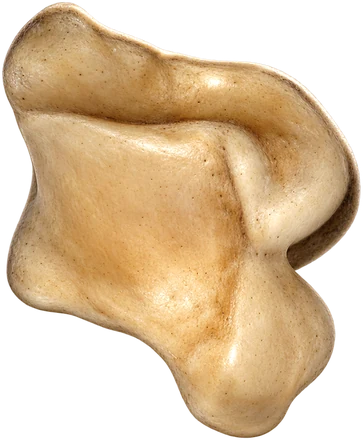
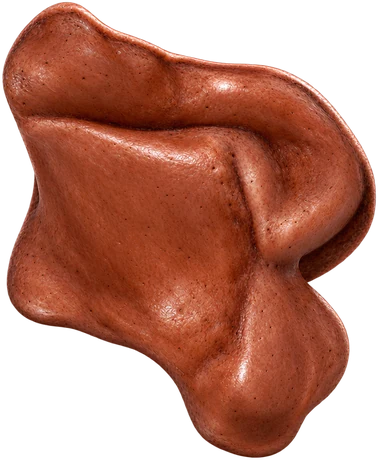
TSOTAN: brand-colour dyed shagai grouped over the cloth
Claude-Session: https://claude.ai/code/session_018PCH3AwiVvsN5WyYP3UKjp

diff --git a/demo/tsotan/index.html b/demo/tsotan/index.html
@@ -101,7 +101,7 @@ main{display:grid;gap:var(--g);min-width:0}
 .hrule{position:absolute;left:22%;right:300px;bottom:30px;height:14px;z-index:2;color:rgba(244,241,234,.38);background:
  repeating-linear-gradient(90deg,currentColor 0 1px,transparent 1px 8px) left bottom/100% 5px no-repeat,
  repeating-linear-gradient(90deg,currentColor 0 1px,transparent 1px 40px) left bottom/100% 10px no-repeat}
-.shagai{position:absolute;z-index:1;pointer-events:none;will-change:transform;filter:drop-shadow(0 22px 26px rgba(0,0,0,.45))}
+.shagai{position:absolute;z-index:1;pointer-events:none;will-change:transform;filter:drop-shadow(0 26px 22px rgba(0,0,0,.38)) drop-shadow(0 6px 8px rgba(0,0,0,.22))}
 .shagai img{width:100%;height:auto}
 
 /* ===== statement ===== */
@@ -307,7 +307,7 @@ footer{padding:clamp(60px,8vw,120px) 0 6px;overflow:hidden}
  .prods h2,.calcp h2,.cust h2{font-size:clamp(30px,9vw,44px)}.vbox h2{font-size:clamp(30px,9vw,44px)}
  .sw{flex-wrap:wrap}
  .vph{min-height:0;aspect-ratio:4/3}
- .shagai.s1{left:56%!important;top:49%!important;width:82px!important}.shagai.s2{left:42%!important;top:78%!important;width:66px!important}.shagai.s3{left:76%!important;top:62%!important;width:74px!important}.shagai.s4{left:8%!important;top:70%!important;width:82px!important}
+ .shagai.s1{left:52%!important;top:46%!important;width:96px!important}.shagai.s2{left:10%!important;top:63%!important;width:70px!important}.shagai.s3{left:68%!important;top:65%!important;width:84px!important}.shagai.s4{left:34%!important;top:76%!important;width:76px!important}
  .vbox dl{grid-template-columns:1fr;gap:2px}.vbox dd{margin-bottom:10px}
 }
 @media(prefers-reduced-motion:reduce){.pill i,.card .im,.sw button{transition:none}.tl img,.flo::after{animation:none}}
@@ -358,10 +358,10 @@ footer{padding:clamp(60px,8vw,120px) 0 6px;overflow:hidden}
    <a class="stack" href="#products" data-cur><span class="th"><img src="img/cloth-knot.webp" alt=""><img src="img/runner-blue.webp" alt=""><img src="img/cushion.webp" alt=""></span><span class="t"><b class="num">145 × 220 см</b>бүтээлэг 88,000₮</span><i><svg><use href="#i-arr"/></svg></i></a>
    <div class="hrule" aria-hidden="true"></div>
    <div class="notch bl"><a class="pill solid" href="#calc" data-cur>Ширээгээ хэмжээд тооцоол<i><svg><use href="#i-arr"/></svg></i></a></div>
-   <div class="shagai s1" data-d="1.4" title="Морь" style="width:124px;left:50%;top:7%"><img src="img/shagai-mori.webp" width="421" height="440" alt=""></div>
-   <div class="shagai s2" data-d="-1" title="Тэмээ" style="width:98px;left:57%;top:69%"><img src="img/shagai-temee.webp" width="362" height="440" alt=""></div>
-   <div class="shagai s3" data-d="2" title="Хонь" style="width:106px;left:84%;top:20%"><img src="img/shagai-honi.webp" width="440" height="373" alt=""></div>
-   <div class="shagai s4" data-d="-1.6" title="Ямаа" style="width:120px;left:33%;top:76%"><img src="img/shagai-yamaa.webp" width="440" height="318" alt=""></div>
+   <div class="shagai s1" data-d="1.4" style="width:150px;left:55%;top:13%"><img src="img/shagai-mori.webp" width="439" height="460" alt=""></div>
+   <div class="shagai s2" data-d="-1" style="width:104px;left:73%;top:15%"><img src="img/shagai-temee.webp" width="378" height="460" alt=""></div>
+   <div class="shagai s3" data-d="2" style="width:132px;left:61%;top:62%"><img src="img/shagai-honi.webp" width="460" height="397" alt=""></div>
+   <div class="shagai s4" data-d="-1.6" style="width:112px;left:80%;top:70%"><img src="img/shagai-yamaa.webp" width="460" height="333" alt=""></div>
   </section>
 
   <section class="panel state" data-sec="Цотан">

diff --git a/demo/tsotan/DESIGN.md b/demo/tsotan/DESIGN.md
@@ -6,7 +6,7 @@ Color: --bez #0e1513 (хүрээ) · --bez2 #16201d · --cotton #f4f1ea · --ink
 Type: Montserrat 800/900 (гарчиг, ТОМ ҮСГЭЭР, giant үгс) · Geologica 300–600 (бичвэр). Ү Ө ₮ шалгасан.
 Radius: panel 28px (утсанд 22), карт 20–22, pill 999.
 Motion: GSAP 3.12.5 + ScrollTrigger + Lenis 1.1.13 (CDN). Intro: hero clip-path нээгдэнэ, гарчгийн мөр доороос; шагай float + хулганы parallax; hero бичлэг scroll-оор томорно; statement үг бүр scrub-аар тодорно; 4 өнгөт scene sticky-гээр давхарлана (дараагийнх нь дээрээс гулсахад өмнөх нь .95 болж, дэвсгэр нь дараагийн өнгө рүү уусна, агуулга нь бүдгэрнэ — хар/brightness filter хэрэглэхгүй), giant үг хэвтээ гүйнэ; бүтээгдэхүүний галерей pin + хэвтээ scrub (desktop), утсанд scroll-snap. GSAP ачаалагдахгүй эсвэл reduced-motion үед бүх агуулга хөдөлгөөнгүй харагдана (CSS-ээр юу ч нуухгүй).
-Images: Higgsfield gpt_image_2_5 — hero (хийсэж буй хээтэй даавуу), шагай (захиалагчийн илгээсэн бодит шагайн 4 талын 2 лавлах зургаар gpt_image_2_5 transparent 3D яс: shagai-mori/temee/honi/yamaa); kling3_0 pro 10s hero бичлэг (start=end → тасралтгүй давталт).
+Images: Higgsfield gpt_image_2_5 — hero (хийсэж буй хээтэй даавуу), шагай (захиалагчийн илгээсэн бодит шагайн 4 талын 2 лавлах зургаар gpt_image_2_5 transparent 3D яс, дараа нь брэндийн 4 өнгөөр (шар=морь, улаан=тэмээ, ногоон=хонь, хөх=ямаа) будсан шагай болгосон: shagai-*.webp; hero дээр даавуун дээр хаясан мэт нэг бүлэг); kling3_0 pro 10s hero бичлэг (start=end → тасралтгүй давталт).
 3D cutout (дэвсгэргүй, хөвөгч): 4 scene (cut-*.webp), бүтээгдэхүүний 9 карт (p-*.webp), захиалгат ажлын 3 зураг (c-*.webp). Бүгд захиалагчийн бодит FB зургийг reference болгож gpt_image_2_5-аар 3D студийн зураг болгоод remove_background хийсэн. Lexus цүнхний лого = бодит зургаас авсан хэвлэлийг хоосон цүнхэн дээр буулгасан (AI лого зураагүй).
 Карт/зургийн ард өнгөт дэвсгэр (--c: teal/ochre/cobalt/clay ээлжилнэ) + бүдэг том үг (.gw); объект CSS bob-оор хөвнө, хулганаар 3D хазайна, хэвтээ гүйлгэлтийн хурдаар эргэнэ (rotationY). Дэлгүүрийн зураг (store.webp) = бодит FB зураг; AI-аар студийн гэрэлтэй хувилбар гаргаад зөвхөн гэрэл, өнгийг нь (бага давтамжийн gain map) эх зураг руу шилжүүлсэн — доторх эд зүйл, хээ, бичиг 100% эх зургийнх. Hero stack thumbs = бодит FB зураг.
 Зураг ачаалагдахгүй бол (утсан сүлжээ) 1 удаа дахин ачаална (img retry).
